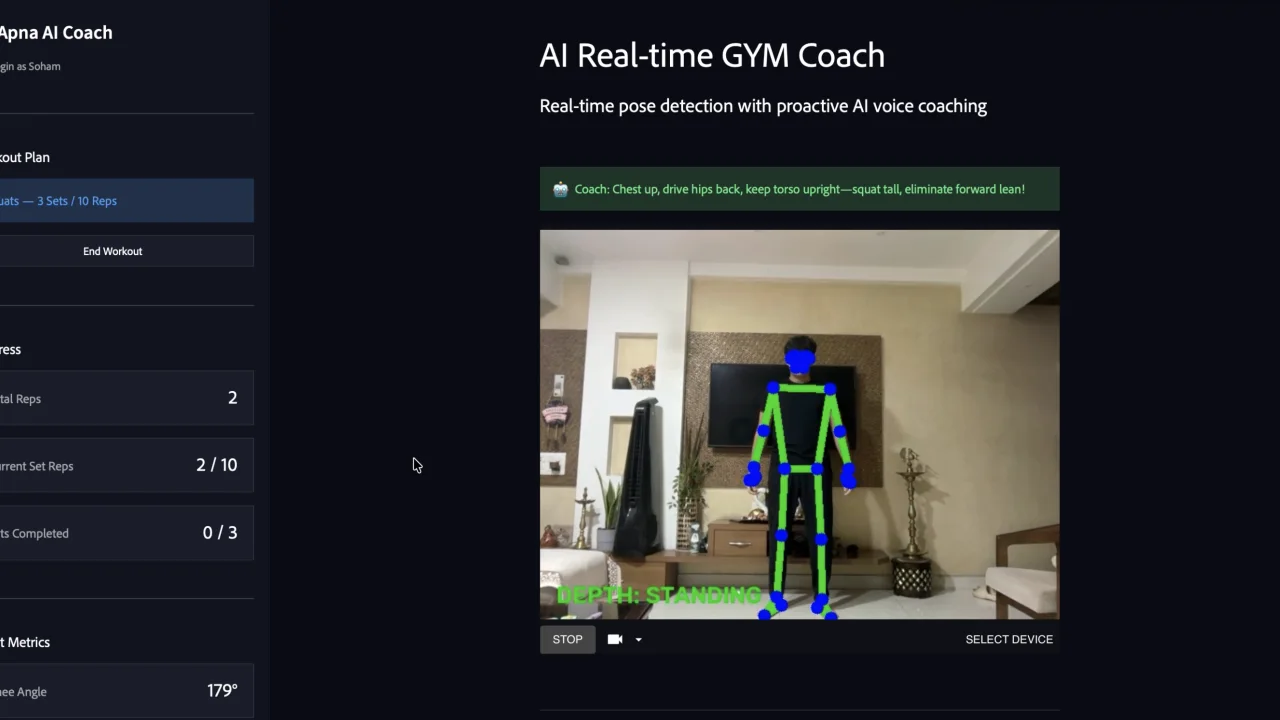
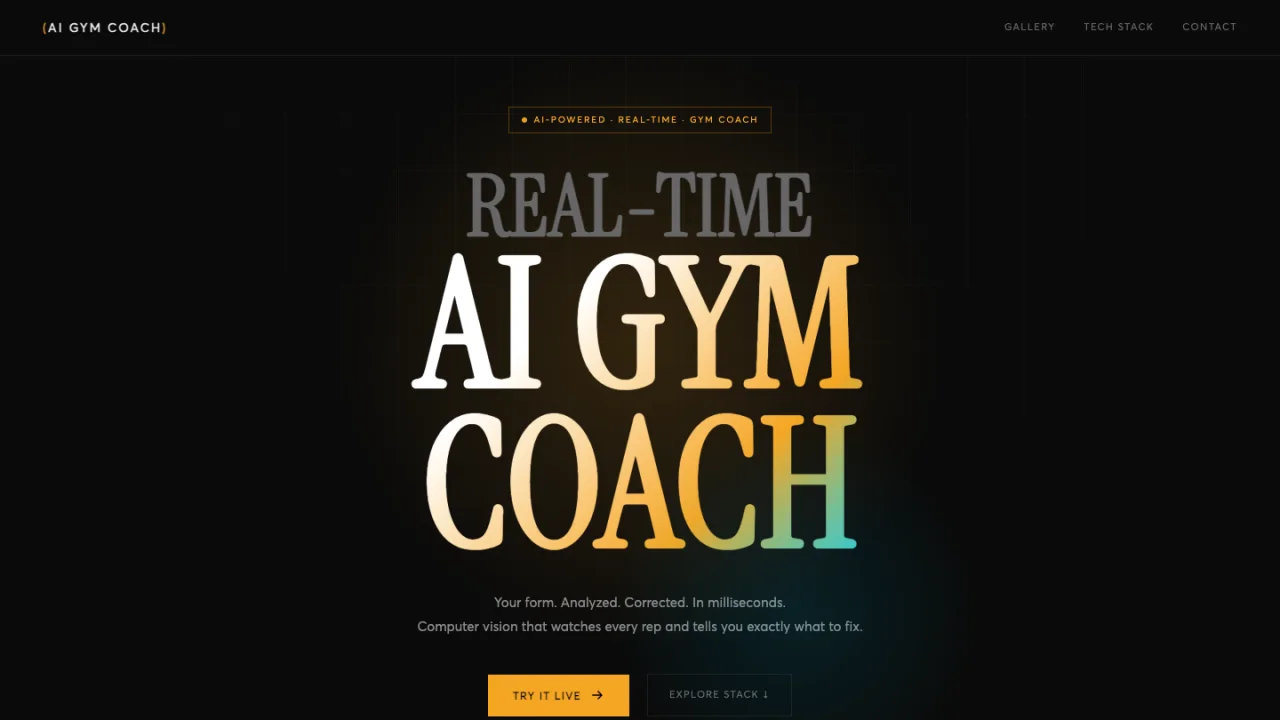
Route AI Gym Coach through landing page

diff --git a/src/App.jsx b/src/App.jsx
@@ -108,9 +108,9 @@ const projects = [
     stack: ["MediaPipe", "OpenCV", "Streamlit", "WebRTC", "Groq"],
     image: "/assets/ai-gym-coach-1280.webp",
     imageSmall: "/assets/ai-gym-coach-640.webp",
-    imageAlt: "AI Gym Coach tracking squat form from a live camera feed",
-    live: "https://ai-gym-bot-app.streamlit.app/",
-    domain: "ai-gym-bot-app.streamlit.app",
+    imageAlt: "AI Gym Coach public landing page",
+    live: "https://ai-gym-bot.netlify.app/",
+    domain: "ai-gym-bot.netlify.app",
     github: "https://github.com/sohamkamat28/AI-GYM_COACH",
     className: "project-card project-card--gym",
   },
